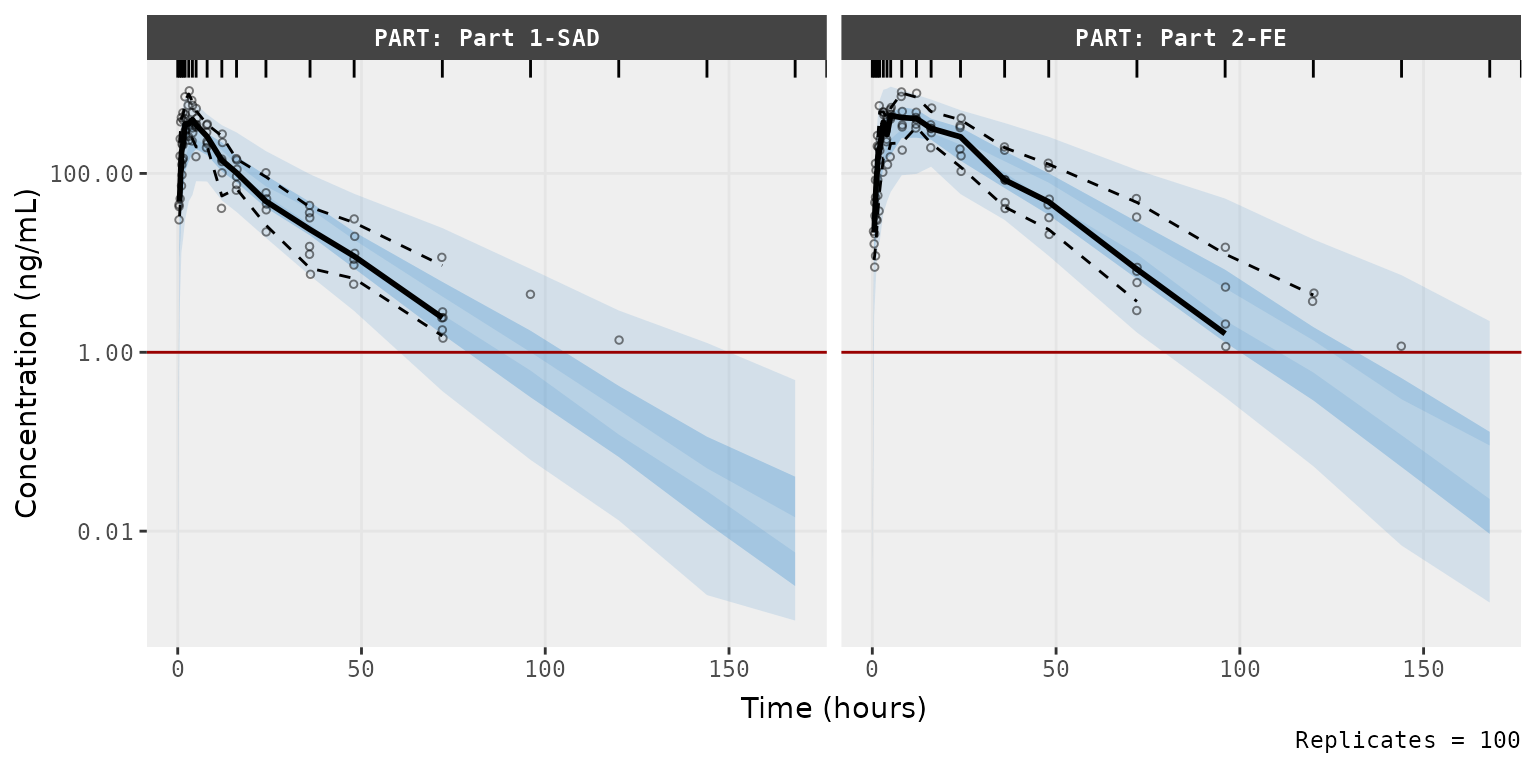
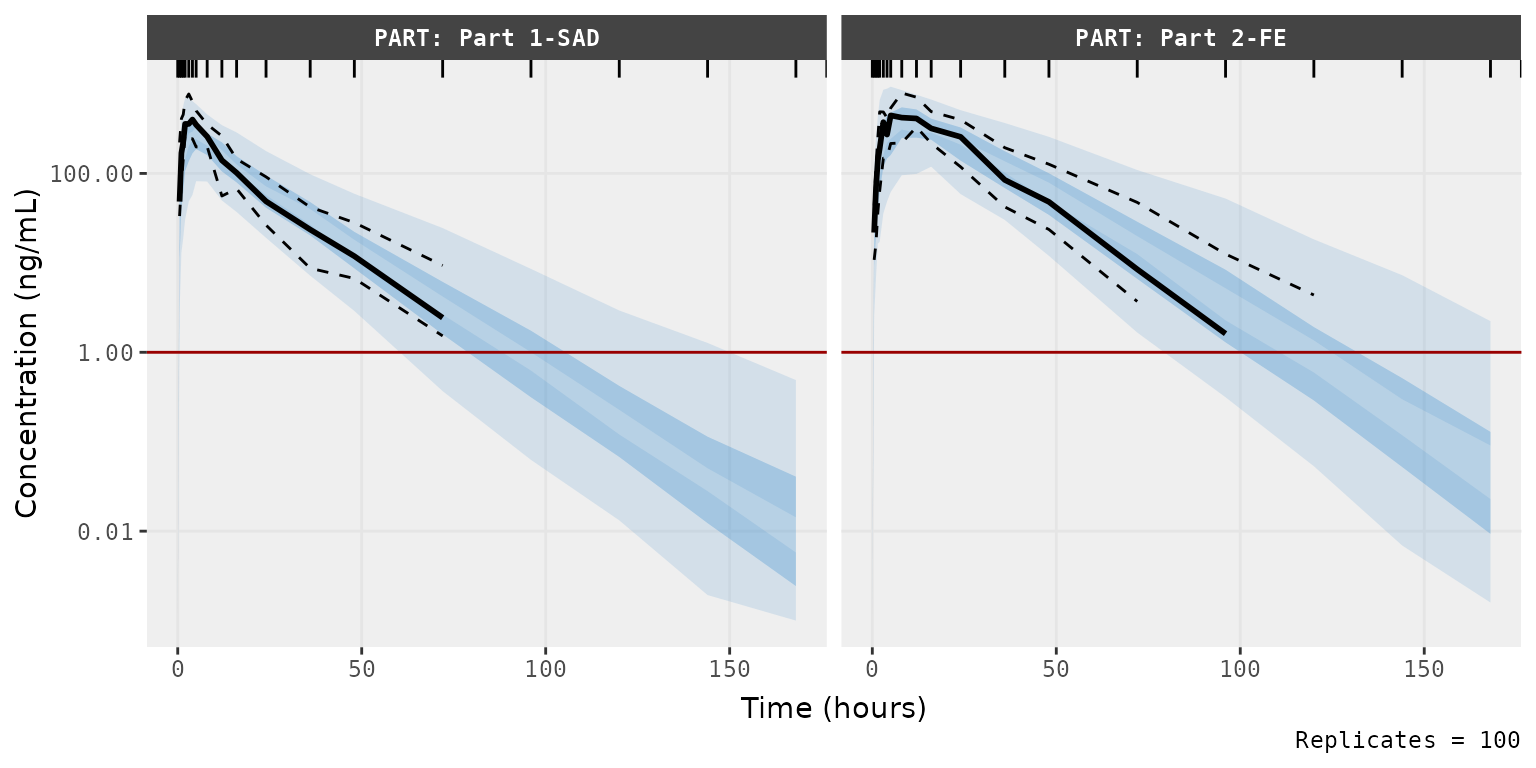
Deploying to gh-pages from @ ryancrass/pmxhelpr@57310a2c71eb7aac201c1d5612f244ff74acddeb 🚀

diff --git a/reference/plot_legend.html b/reference/plot_legend.html
@@ -46,10 +46,9 @@
     <div class="sourceCode"><pre class="sourceCode r"><code><span><span class="fu">plot_legend</span><span class="op">(</span></span>
 <span>  ci <span class="op">=</span> <span class="fu"><a href="https://rdrr.io/r/base/c.html" class="external-link">c</a></span><span class="op">(</span><span class="fl">0.05</span>, <span class="fl">0.95</span><span class="op">)</span>,</span>
 <span>  pi <span class="op">=</span> <span class="fu"><a href="https://rdrr.io/r/base/c.html" class="external-link">c</a></span><span class="op">(</span><span class="fl">0.05</span>, <span class="fl">0.95</span><span class="op">)</span>,</span>
-<span>  shown <span class="op">=</span> <span class="fu"><a href="https://rdrr.io/r/base/list.html" class="external-link">list</a></span><span class="op">(</span>obs_dv <span class="op">=</span> <span class="cn">TRUE</span>, obs_ci <span class="op">=</span> <span class="cn">TRUE</span>, pi <span class="op">=</span> <span class="cn">FALSE</span>, pi_as_area <span class="op">=</span> <span class="cn">FALSE</span>, pi_ci <span class="op">=</span></span>
-<span>    <span class="cn">TRUE</span>, obs_median <span class="op">=</span> <span class="cn">TRUE</span>, sim_median <span class="op">=</span> <span class="cn">FALSE</span>, sim_median_ci <span class="op">=</span> <span class="cn">TRUE</span><span class="op">)</span>,</span>
-<span>  interval_colors <span class="op">=</span> <span class="fu"><a href="https://rdrr.io/r/base/c.html" class="external-link">c</a></span><span class="op">(</span>sim_median_ci <span class="op">=</span> <span class="st">"#3388cc"</span>, pi_ci <span class="op">=</span> <span class="st">"#3388cc"</span>, pi_as_area <span class="op">=</span></span>
-<span>    <span class="st">"#3388cc"</span><span class="op">)</span>,</span>
+<span>  shown <span class="op">=</span> <span class="cn">NULL</span>,</span>
+<span>  lloq <span class="op">=</span> <span class="cn">NULL</span>,</span>
+<span>  update <span class="op">=</span> <span class="cn">NULL</span>,</span>
 <span>  <span class="va">...</span></span>
 <span><span class="op">)</span></span></code></pre></div>
     </div>
@@ -67,8 +66,7 @@
 
 
 <dt id="arg-shown">shown<a class="anchor" aria-label="anchor" href="#arg-shown"></a></dt>
-<dd><p>Named list of logicals specifying which layers to include on the plot passed to <code>show</code> argument of <code><a href="https://rdrr.io/pkg/vpc/man/vpc.html" class="external-link">vpc::vpc()</a></code>.
-Entire <code>list</code> must be specified if modifying from default.</p>
+<dd><p>Named list of logicals specifying which layers to include on the plot passed to <code>show</code> argument of <code><a href="https://rdrr.io/pkg/vpc/man/vpc.html" class="external-link">vpc::vpc()</a></code>.</p>
 <p>Default is:</p><ul><li><p>Observed points: <code>obs_dv</code> = FALSE.</p></li>
 <li><p>Observed quantiles: <code>obs_ci</code> = TRUE</p></li>
 <li><p>Simulated inter-quantile range:<code>pi</code> = FALSE</p></li>
@@ -80,8 +78,12 @@ Entire <code>list</code> must be specified if modifying from default.</p>
 </ul></dd>
 
 
-<dt id="arg-interval-colors">interval_colors<a class="anchor" aria-label="anchor" href="#arg-interval-colors"></a></dt>
-<dd><p>color of simulated intervals in plot. Default is (sim_median_ci = "#3388cc",pi_ci = "#3388cc",pi_as_area = "#3388cc")</p></dd>
+<dt id="arg-lloq">lloq<a class="anchor" aria-label="anchor" href="#arg-lloq"></a></dt>
+<dd><p>label for lower limit of quantification in the plot legend.</p></dd>
+
+
+<dt id="arg-update">update<a class="anchor" aria-label="anchor" href="#arg-update"></a></dt>
+<dd><p>list containing the plot elements to be updated. Default is set by <code><a href="https://rdrr.io/pkg/vpc/man/new_vpc_theme.html" class="external-link">vpc::new_vpc_theme()</a></code>.</p></dd>
 
 
 <dt id="arg--">...<a class="anchor" aria-label="anchor" href="#arg--"></a></dt>

diff --git a/reference/plot_vpc_exactbins.html b/reference/plot_vpc_exactbins.html
@@ -57,8 +57,7 @@ that returns a <code>ggplot2</code> object.</p>
 <span>  min_bin_count <span class="op">=</span> <span class="fl">1</span>,</span>
 <span>  show_rep <span class="op">=</span> <span class="cn">TRUE</span>,</span>
 <span>  lower_bound <span class="op">=</span> <span class="fl">0</span>,</span>
-<span>  shown <span class="op">=</span> <span class="fu"><a href="https://rdrr.io/r/base/list.html" class="external-link">list</a></span><span class="op">(</span>obs_dv <span class="op">=</span> <span class="cn">TRUE</span>, obs_ci <span class="op">=</span> <span class="cn">TRUE</span>, pi <span class="op">=</span> <span class="cn">FALSE</span>, pi_as_area <span class="op">=</span> <span class="cn">FALSE</span>, pi_ci <span class="op">=</span></span>
-<span>    <span class="cn">TRUE</span>, obs_median <span class="op">=</span> <span class="cn">TRUE</span>, sim_median <span class="op">=</span> <span class="cn">FALSE</span>, sim_median_ci <span class="op">=</span> <span class="cn">TRUE</span><span class="op">)</span>,</span>
+<span>  shown <span class="op">=</span> <span class="cn">NULL</span>,</span>
 <span>  <span class="va">...</span></span>
 <span><span class="op">)</span></span></code></pre></div>
     </div>
@@ -114,8 +113,7 @@ but retains these observations in the observed data points.</p></dd>
 
 
 <dt id="arg-shown">shown<a class="anchor" aria-label="anchor" href="#arg-shown"></a></dt>
-<dd><p>Named list of logicals specifying which layers to include on the plot passed to <code>show</code> argument of <code><a href="https://rdrr.io/pkg/vpc/man/vpc.html" class="external-link">vpc::vpc()</a></code>.
-Entire <code>list</code> must be specified if modifying from default.</p>
+<dd><p>Named list of logicals specifying which layers to include on the plot passed to <code>show</code> argument of <code><a href="https://rdrr.io/pkg/vpc/man/vpc.html" class="external-link">vpc::vpc()</a></code>.</p>
 <p>Default is:</p><ul><li><p>Observed points: <code>obs_dv</code> = FALSE.</p></li>
 <li><p>Observed quantiles: <code>obs_ci</code> = TRUE</p></li>
 <li><p>Simulated inter-quantile range:<code>pi</code> = FALSE</p></li>
